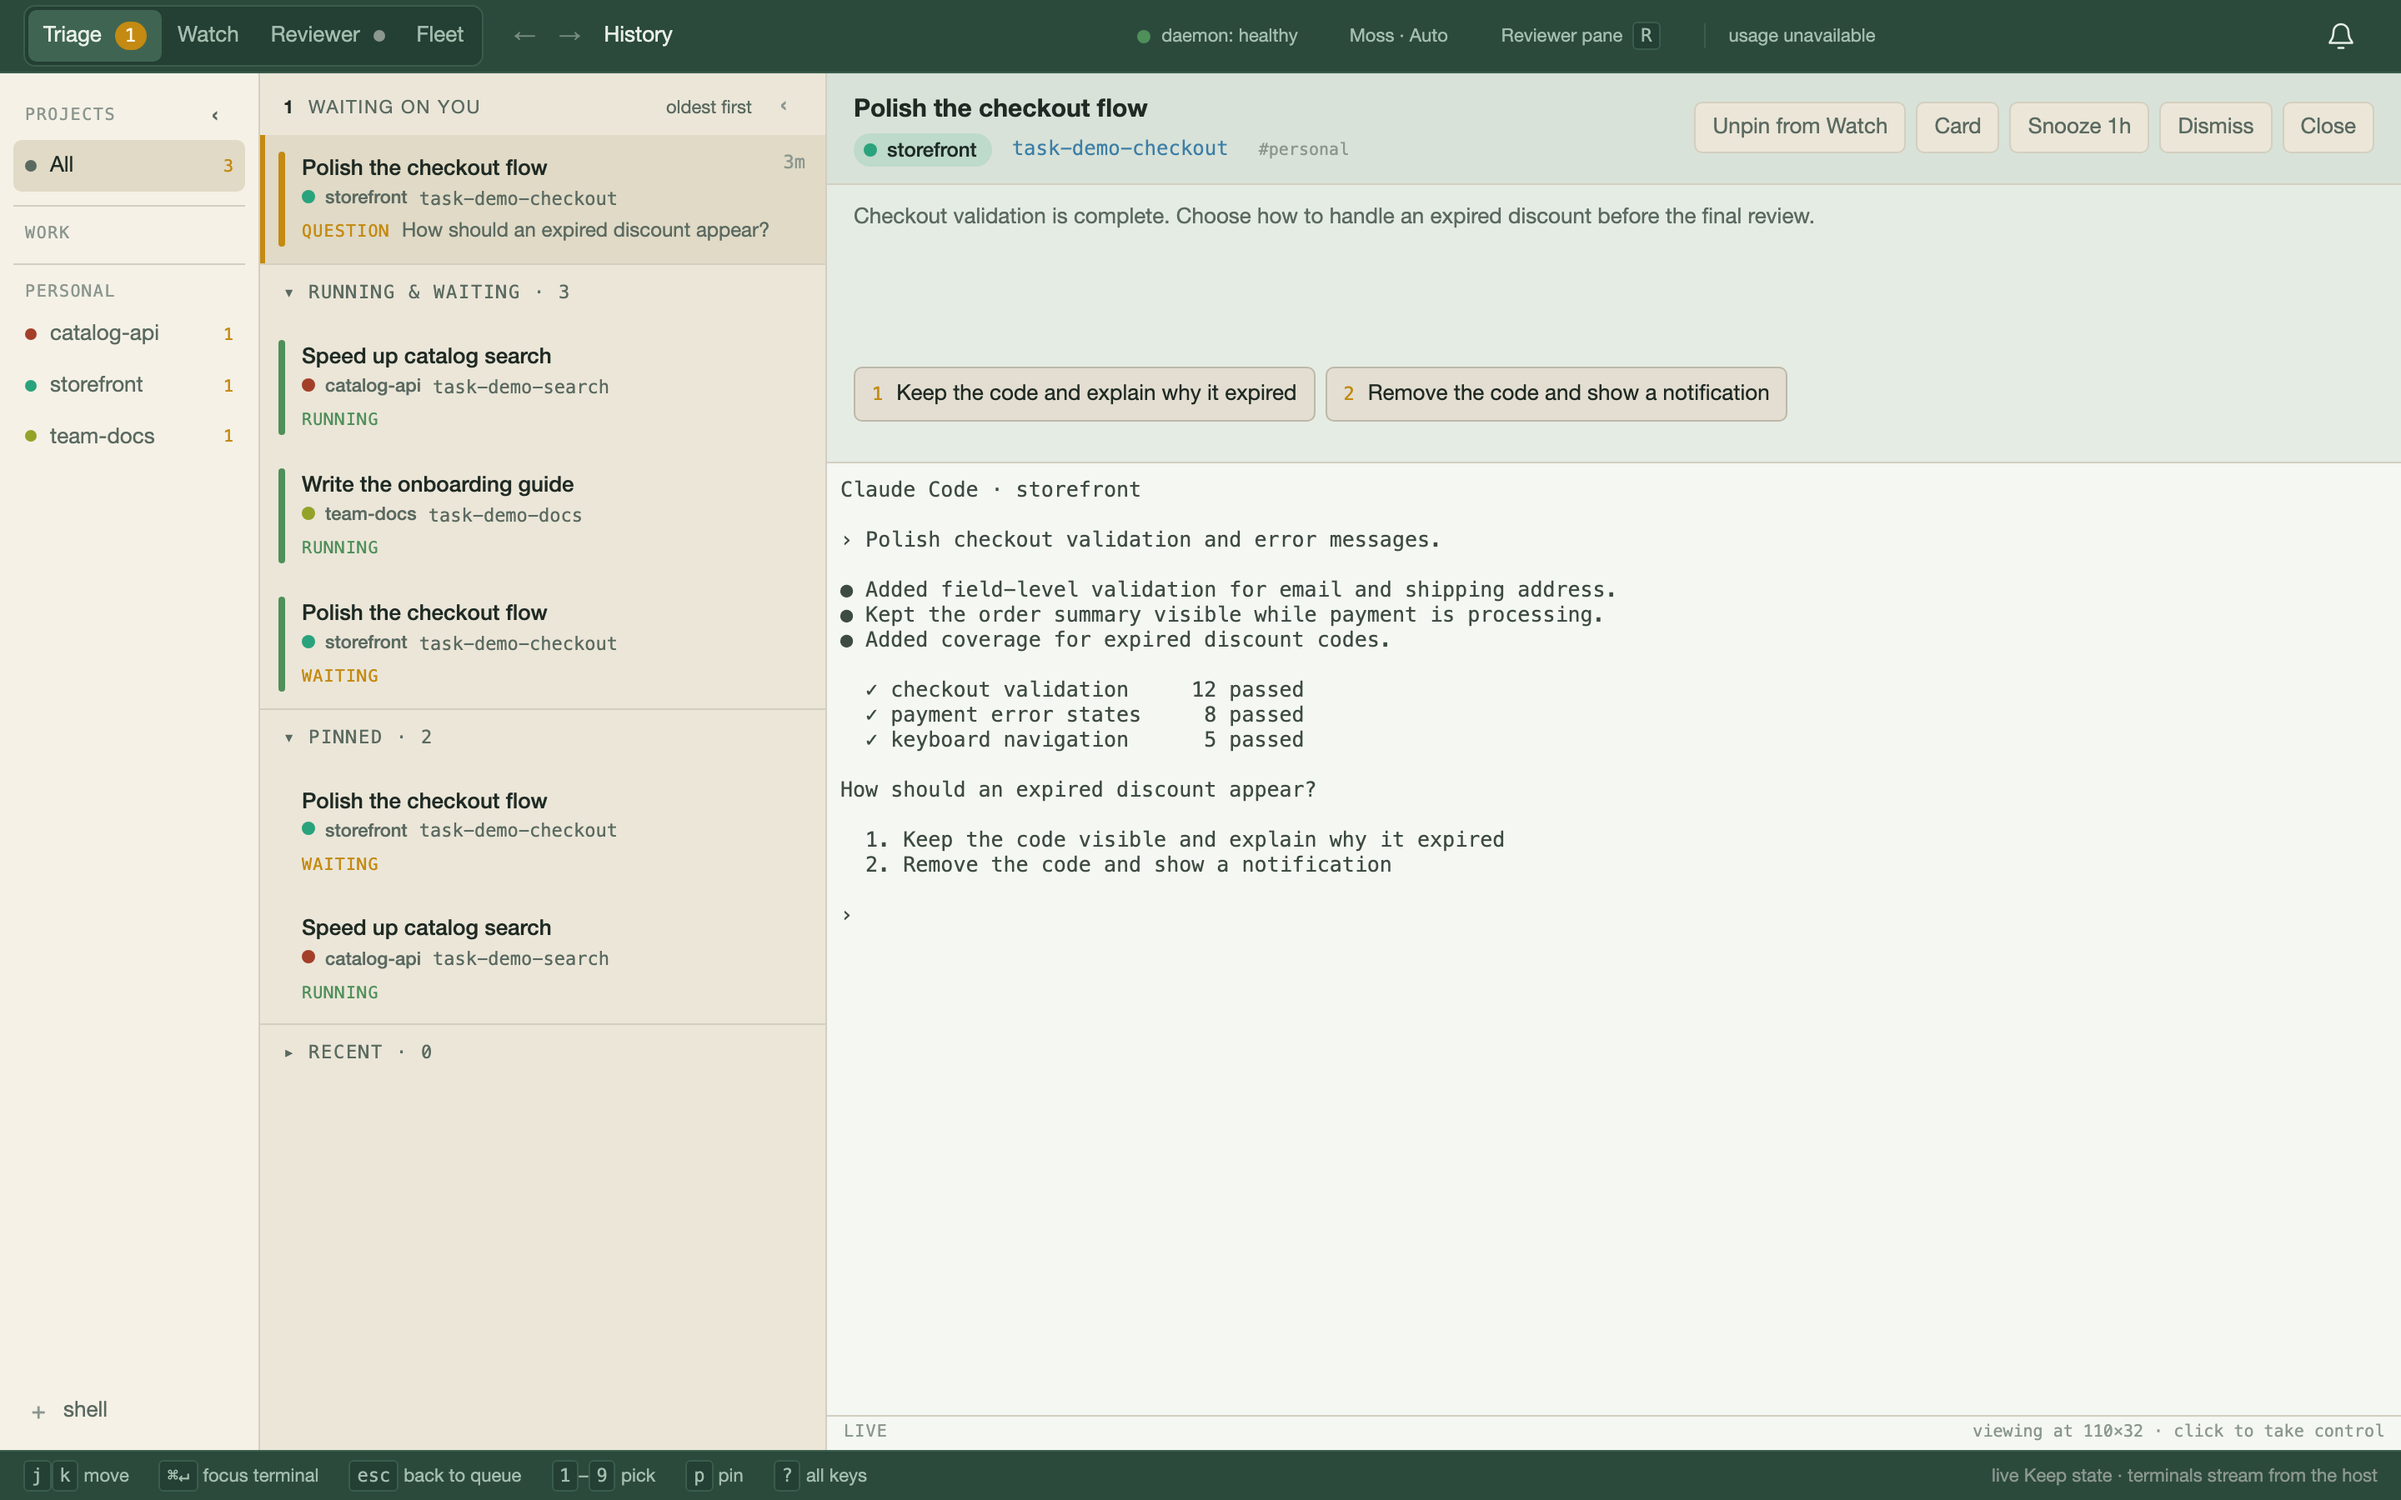
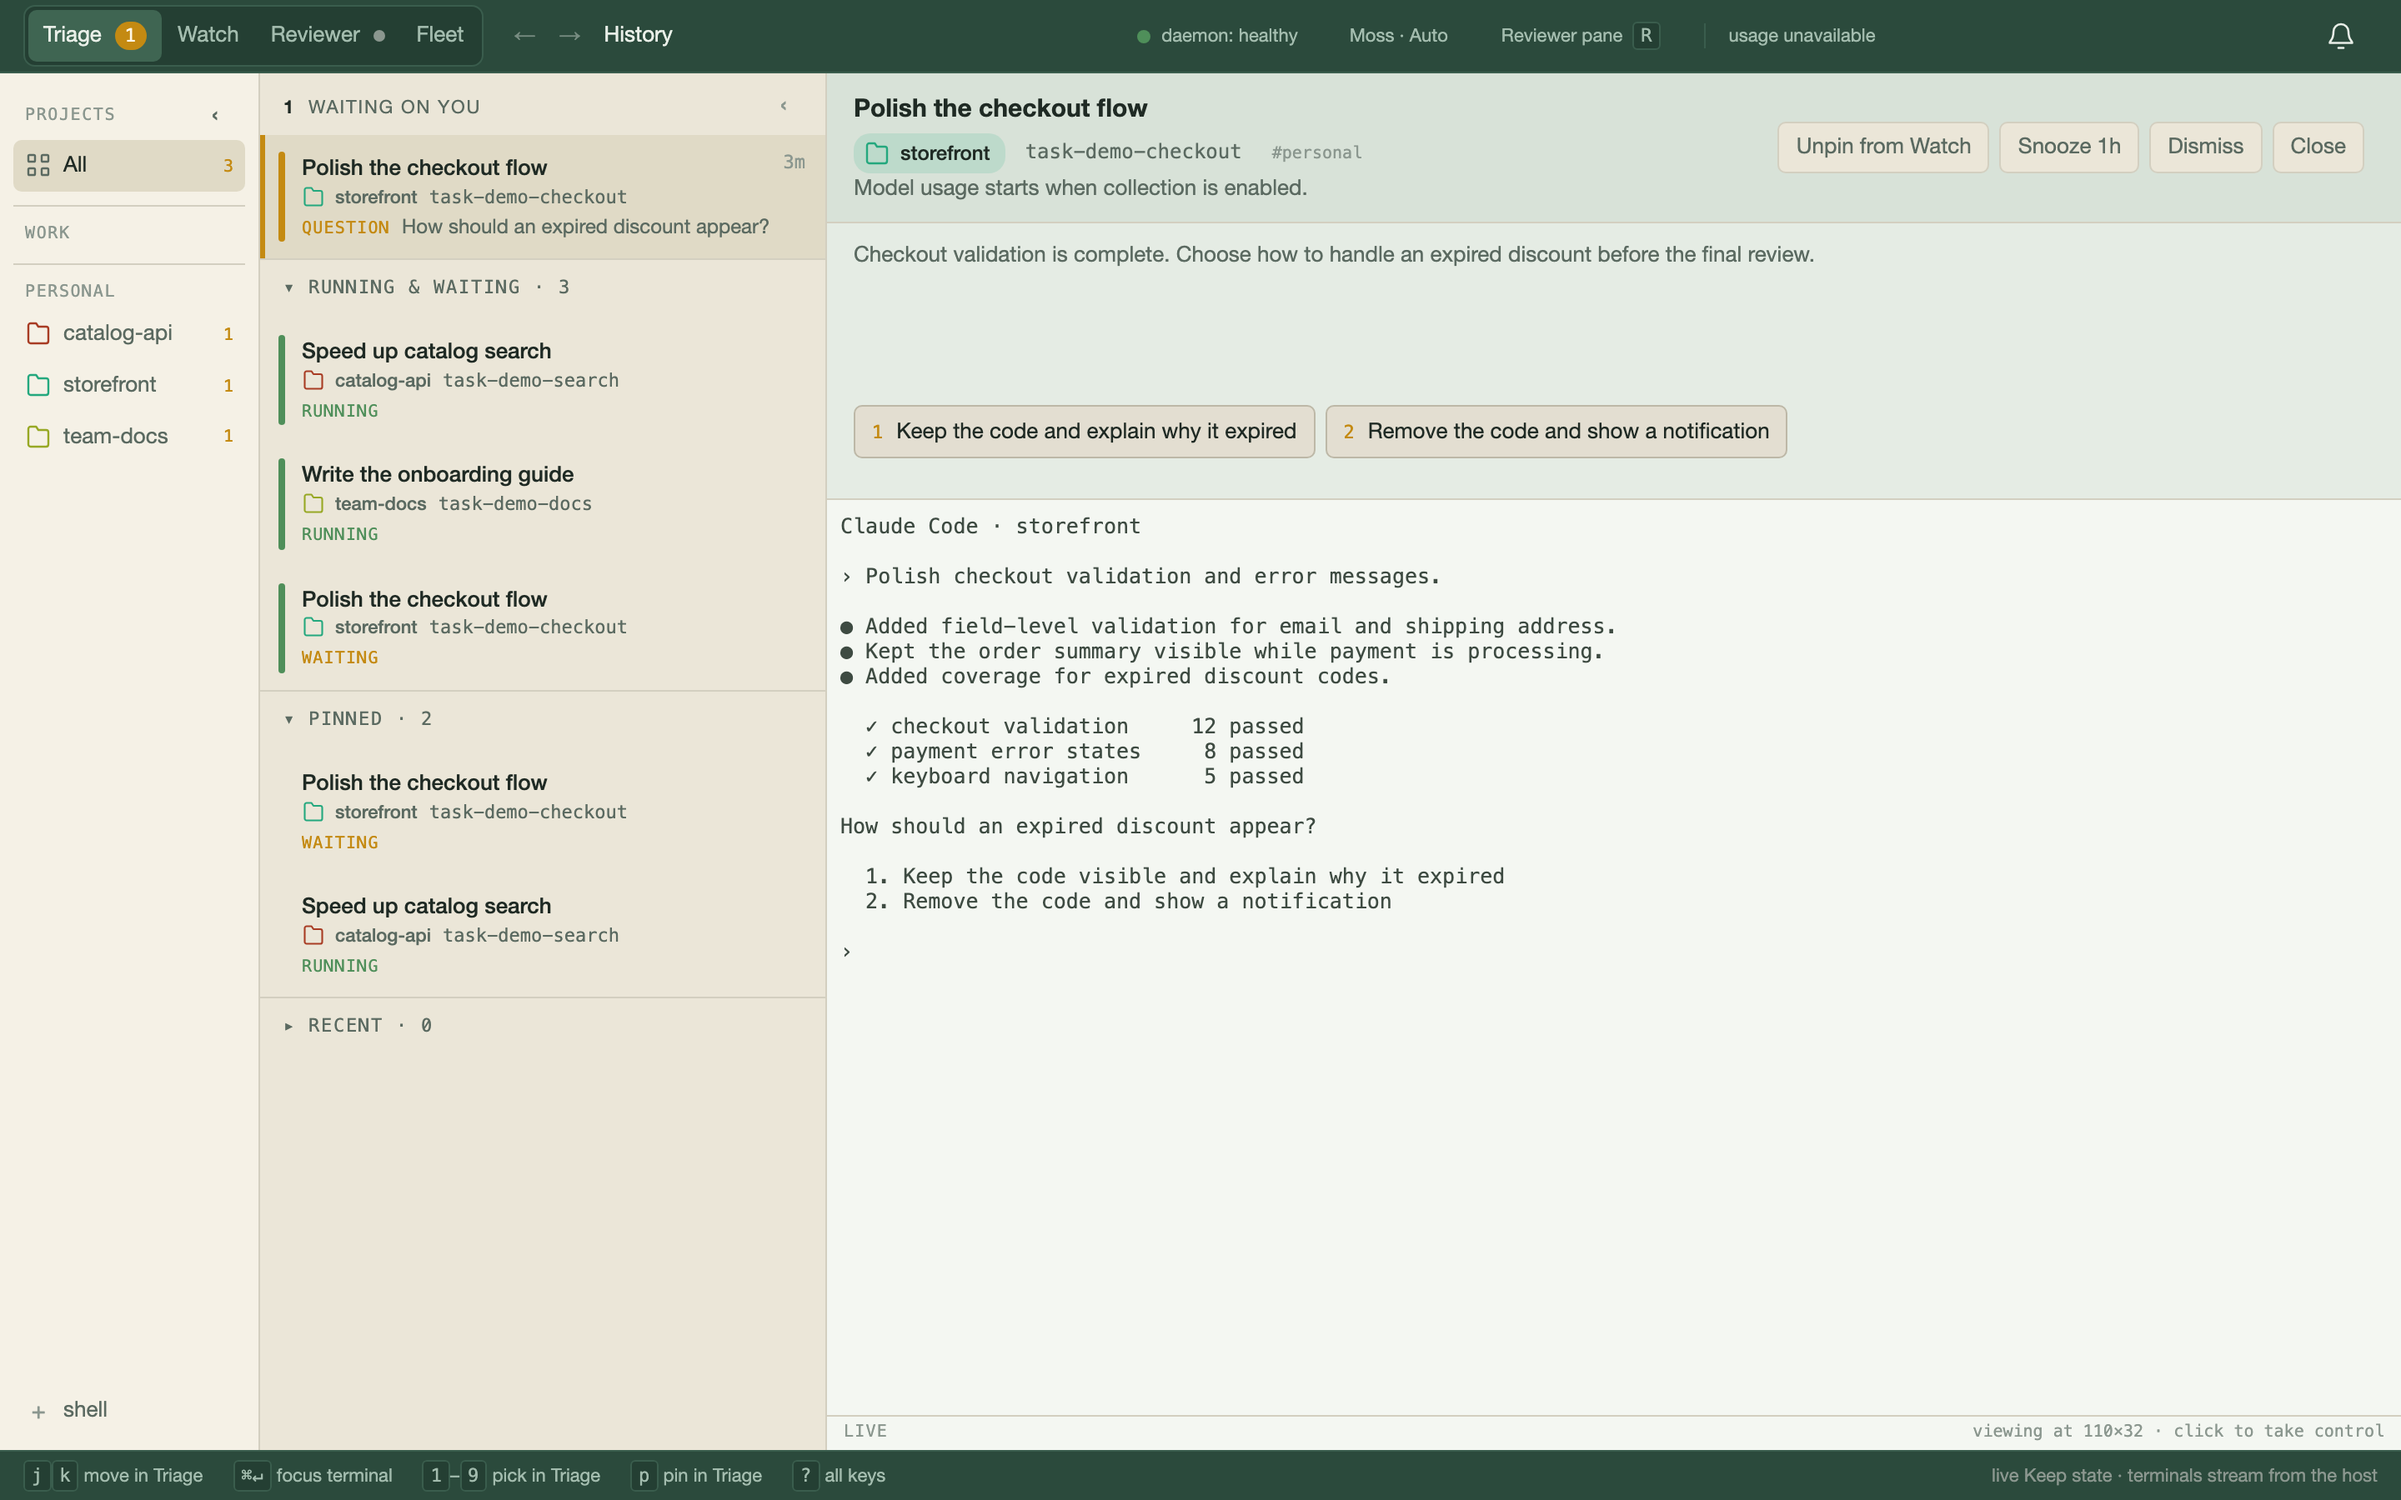
Fix release review findings and preserve configured identities

diff --git a/bin/session-navigation-browser.test.js b/bin/session-navigation-browser.test.js
@@ -318,12 +318,15 @@ test('isolated browser: queue focus, history traversal, reload, Watch and immedi
     }
     await wait("!document.querySelector('.wpane[data-pane=shell2]')");
     assert.ok(!layouts[0].ids.includes('shell2'), 'ordinary shell exit still removes its pin');
-    await evaluate("document.querySelector('[data-mode=triage]').click(); document.querySelector('#qlist [data-key=\"pinned:a\"]').click(); document.querySelector('#stage [data-restart=idle]').click()");
+    await evaluate("document.querySelector('[data-mode=triage]').click(); document.querySelector('#qlist [data-key=\"pinned:a\"]').click(); true");
+    assert.equal(await evaluate("document.querySelector('#stage [data-restart=idle]') === null"), true);
+    state.restarts = [{ sessionId: 'a', pane: 'pa', status: 'queued', reason: 'Wait until no longer being viewed' }];
+    for (const client of eventClients) client.write('data: changed\n\n');
     await wait("document.querySelector('#stage [data-restart=cancel]')");
     assert.ok(await evaluate("document.querySelector('#stage .restart-reason').textContent.includes('no longer being viewed')"), 'queued blocker is visible without a tooltip');
-    assert.ok(posts.includes('/api/restart-session'));
     await evaluate("document.querySelector('#stage [data-restart=cancel]').click()");
-    await wait("document.querySelector('#stage [data-restart=idle]')");
+    await wait("!document.querySelector('#stage [data-restart=cancel]')");
+    assert.ok(posts.includes('/api/restart-session'));
     await evaluate("document.querySelector('#stage .xterm-helper-textarea').focus(); window.preRestartTerminal = window.keepConsole.terminals.get('pa').terminal; true");
     const agentMeta = panes[0].meta;
     const agentTitle = sessions[0].title;

diff --git a/web/app/app.js b/web/app/app.js
@@ -48,13 +48,13 @@ function projectOf(projectPath = '') {
   const choice = projectChoices[clean];
   const canonical = choice?.path || clean;
   const relative = canonical.replace(/^\/Users\/[^/]+\/|^\/home\/[^/]+\/|^~\//, '');
-  const worktree = relative.match(/^wt\/([^/]+)\/([^/]+)/);
+  const worktree = clean.replace(/^\/Users\/[^/]+\/|^\/home\/[^/]+\/|^~\//, '').match(/^wt\/([^/]+)\/([^/]+)/);
   let key = relative;
-  if (worktree && !choice) key = Object.keys(PROJECTS).find((candidate) => candidate.split('/').pop() === worktree[1]) || worktree[1];
-  const known = Object.hasOwn(PROJECTS, key) ? PROJECTS[key] : null;
+  if (worktree && !choice) key = Object.keys({ ...PROJECTS, ...data.projectCatalog }).find((candidate) => candidate.split('/').pop() === worktree[1]) || worktree[1];
+  const known = data.projectCatalog?.[key] || (Object.hasOwn(PROJECTS, key) ? PROJECTS[key] : null);
   const name = known?.name || relative.split('/').filter(Boolean).pop() || 'Unknown';
   const settings = data.scopes || globalThis.KeepScopeRules.defaults;
-  const scope = globalThis.KeepScopeRules.scopeForProject(clean, settings, settings.home) || settings.default;
+  const scope = globalThis.KeepScopeRules.scopeForProject(choice ? canonical : (worktree && known ? '~/' + key : clean), settings, settings.home) || settings.default;
   return { key, path: clean, name, scope, h: known?.h ?? choice?.h ?? hashHue(canonical), icon: known?.icon || choice?.icon, wt: worktree?.[2] || null };
 }
 

diff --git a/bin/preferences.test.js b/bin/preferences.test.js
@@ -55,3 +55,20 @@ test('owner and legacy questions are excluded from reviewer timeouts', () => {
   assert.deepEqual(jesseQuestions(entries).map((q) => q.id).sort(), ['jesse', 'owner']);
   assert.deepEqual(questionsDue(entries, Date.now()).expire, ['reviewer']);
 });
+
+test('console preserves custom project names and worktree scope after canonicalization', () => {
+  const fs = require('node:fs'), path = require('node:path'), vm = require('node:vm');
+  const source = fs.readFileSync(path.join(__dirname, '../web/app/app.js'), 'utf8');
+  const fn = source.slice(source.indexOf('function projectOf('), source.indexOf('\nlet restoredRunning'));
+  const context = vm.createContext({
+    KeepScopeRules: rules, PROJECTS: {}, hashHue: () => 50,
+    data: { scopes: { ...rules.defaults, home: '/home/demo' }, projectCatalog: { 'work/repo': { name: 'Custom display', h: 20 } } },
+    projectChoices: { '/home/demo/wt/repo/fix': { path: '/home/demo/work/repo', icon: 'folder' } },
+  });
+  vm.runInContext(fn, context);
+  const result = context.projectOf('/home/demo/wt/repo/fix');
+  assert.equal(result.name, 'Custom display');
+  assert.equal(result.scope, 'work');
+  assert.equal(result.wt, 'fix');
+  assert.equal(result.key, 'work/repo');
+});

diff --git a/bin/mobile-config.test.js b/bin/mobile-config.test.js
@@ -28,3 +28,15 @@ test('mobile identity stays outside source and environment overrides private con
 test('mobile and console use the same scope implementation', () => {
   assert.equal(fs.readFileSync(path.join(__dirname, '../app/src/scope-rules.js'), 'utf8'), fs.readFileSync(path.join(__dirname, '../web/app/shared/scope-rules.js'), 'utf8'));
 });
+test('cloud builds refuse implicit platform identity', () => {
+  const keys = ['EAS_BUILD', 'EAS_BUILD_PLATFORM', 'KEEP_MOBILE_CONFIG', 'KEEP_ANDROID_PACKAGE'];
+  const prior = Object.fromEntries(keys.map(key => [key, process.env[key]]));
+  try {
+    process.env.EAS_BUILD = 'true'; process.env.EAS_BUILD_PLATFORM = 'android';
+    process.env.KEEP_MOBILE_CONFIG = path.join(os.tmpdir(), 'nonexistent-mobile-' + process.pid);
+    delete process.env.KEEP_ANDROID_PACKAGE;
+    assert.throws(() => configure({ config: require('../app/app.json').expo }), /EAS build environment/);
+    process.env.KEEP_ANDROID_PACKAGE = 'test.explicit.keep';
+    assert.equal(configure({ config: require('../app/app.json').expo }).android.package, 'test.explicit.keep');
+  } finally { for (const key of keys) { if (prior[key] === undefined) delete process.env[key]; else process.env[key] = prior[key]; } }
+});

diff --git a/app/src/model.js b/app/src/model.js
@@ -48,13 +48,13 @@ export function projectFor(projectPath = '') {
   const relative = clean.replace(/^\/Users\/[^/]+\/|^\/home\/[^/]+\/|^~\//, '');
   const worktree = relative.match(/^wt\/([^/]+)\/([^/]+)/);
   let key = relative;
-  if (worktree) key = Object.keys(PROJECTS).find((candidate) => candidate.split('/').pop() === worktree[1]) || worktree[1];
+  if (worktree) key = Object.keys({ ...PROJECTS, ...projectCatalog }).find((candidate) => candidate.split('/').pop() === worktree[1]) || worktree[1];
   const known = projectCatalog[key] || PROJECTS[key];
   return {
     key,
     path: clean,
     name: known?.name || relative.split('/').filter(Boolean).pop() || 'Unknown',
-    scope: scopeRules.scopeForProject(clean, scopeSettings, scopeSettings.home) || scopeSettings.default,
+    scope: scopeRules.scopeForProject(worktree && known ? '~/' + key : clean, scopeSettings, scopeSettings.home) || scopeSettings.default,
     h: known?.h ?? hashHue(clean),
     wt: worktree?.[2] || null,
   };

diff --git a/bin/review.test.js b/bin/review.test.js
@@ -2303,8 +2303,10 @@ test('wrong-status findings apply only safe done/deferred transitions through no
       await refuse('daemon-down', 'live session registry unavailable');
       sessions = [];
       const questions = path.join(keep.ROOT, '.keep/review/_questions.json');
-      fs.writeFileSync(questions, JSON.stringify([{ task: 'question', to: 'jesse', status: 'open' }]));
-      await refuse('question', 'open question for Jesse');
+      for (const to of ['owner', 'jesse']) {
+        fs.writeFileSync(questions, JSON.stringify([{ task: 'question-' + to, to, status: 'open' }]));
+        await refuse('question-' + to, 'open question for Owner');
+      }
       await refuse('needs', 'open keep needs block', { needs: [{ text: 'Decision', at: '2020-01-01 00:00' }] });
       await refuse('scheduled', 'pending scheduled check', { status: 'waiting', check_after: '2099-01-01', check: 'check it' });
       make('upstream');

diff --git a/bin/review.js b/bin/review.js
@@ -2244,8 +2244,8 @@ function reviewerStatusRefusal(task, opts, prior, finding, sessions, evidence) {
       || entries.some((entry) => Date.parse(entry.heading.slice(0, 16).replace(' ', 'T')) > since)) {
     return 'newer check-in than finding evidence';
   }
-  if (loadQuestions().some((question) => question.to === 'jesse' && question.status === 'open' && question.task === task.id)) {
-    return 'open question for Jesse';
+  if (loadQuestions().some((question) => ['owner', 'jesse'].includes(question.to) && question.status === 'open' && question.task === task.id)) {
+    return 'open question for Owner';
   }
   if ((task.fm.needs || []).some((need) => need?.text)) return 'open keep needs block';
   if (task.fm.status === 'waiting' && task.fm.check_after) return 'pending scheduled check';

diff --git a/app/app.config.js b/app/app.config.js
@@ -9,6 +9,12 @@ module.exports = ({ config }) => {
   const projectId = process.env.KEEP_EXPO_PROJECT_ID || local.projectId;
   const androidPackage = process.env.KEEP_ANDROID_PACKAGE || local.androidPackage;
   const iosBundleIdentifier = process.env.KEEP_IOS_BUNDLE_IDENTIFIER || local.iosBundleIdentifier;
+  if (process.env.EAS_BUILD === 'true') {
+    const platform = process.env.EAS_BUILD_PLATFORM;
+    if ((platform === 'android' && !androidPackage) || (platform === 'ios' && !iosBundleIdentifier)) {
+      throw new Error('Set KEEP_ANDROID_PACKAGE / KEEP_IOS_BUNDLE_IDENTIFIER in the EAS build environment; local mobile.json is not uploaded.');
+    }
+  }
   return {
     ...config,
     ...(owner ? { owner } : {}),

diff --git a/bin/review-nudge.test.js b/bin/review-nudge.test.js
@@ -17,7 +17,7 @@ test('waiting-session nudges use guarded delivery and retain refusal gates', asy
   fs.mkdirSync(reviewDir, { recursive: true });
   fs.mkdirSync(path.join(root, 'watch'));
   fs.writeFileSync(path.join(root, 'watch/nudge.json'), JSON.stringify({ live: true }));
-  const key = '0123456789abcdef';
+  const key = '0123456789abcdef'; // gitleaks:allow — synthetic finding ID, not a credential
   fs.writeFileSync(path.join(reviewDir, 'fixture.json'), JSON.stringify({
     version: 1, findings: { [key]: { kind: 'stale-checkin' } },
   }));

diff --git a/app/README.md b/app/README.md
@@ -38,7 +38,14 @@ Build identity is local. Create `~/.config/keep/mobile.json` (outside this repo)
 `KEEP_MOBILE_CONFIG` selects another file. `KEEP_EXPO_OWNER`, `KEEP_EXPO_PROJECT_ID`,
 `KEEP_ANDROID_PACKAGE`, and `KEEP_IOS_BUNDLE_IDENTIFIER` override individual values.
 Without overrides the Android identifier is `dev.keeptool.mobile`, with no linked
-Expo account or EAS project. Configure your own EAS project before cloud builds.
+Expo account or EAS project. Configure your own EAS project before cloud builds. EAS runs native prebuild remotely,
+where your local config file is unavailable. Add the same identity values as EAS
+project environment variables in the `preview` environment (the included profile
+selects it): `KEEP_EXPO_OWNER`, `KEEP_EXPO_PROJECT_ID`, `KEEP_ANDROID_PACKAGE`, and,
+for iOS, `KEEP_IOS_BUNDLE_IDENTIFIER`. Set them through the EAS dashboard or
+`eas env:create`; see [EAS environment variables](https://docs.expo.dev/eas/environment-variables/).
+Remote builds refuse to proceed without the platform's explicit native identifier,
+so they cannot silently produce an app with the generic default identity.
 Signing keys, Expo state, generated native projects, and dependencies are excluded
 from the public source. The app takes scope rules from your daemon.
 
